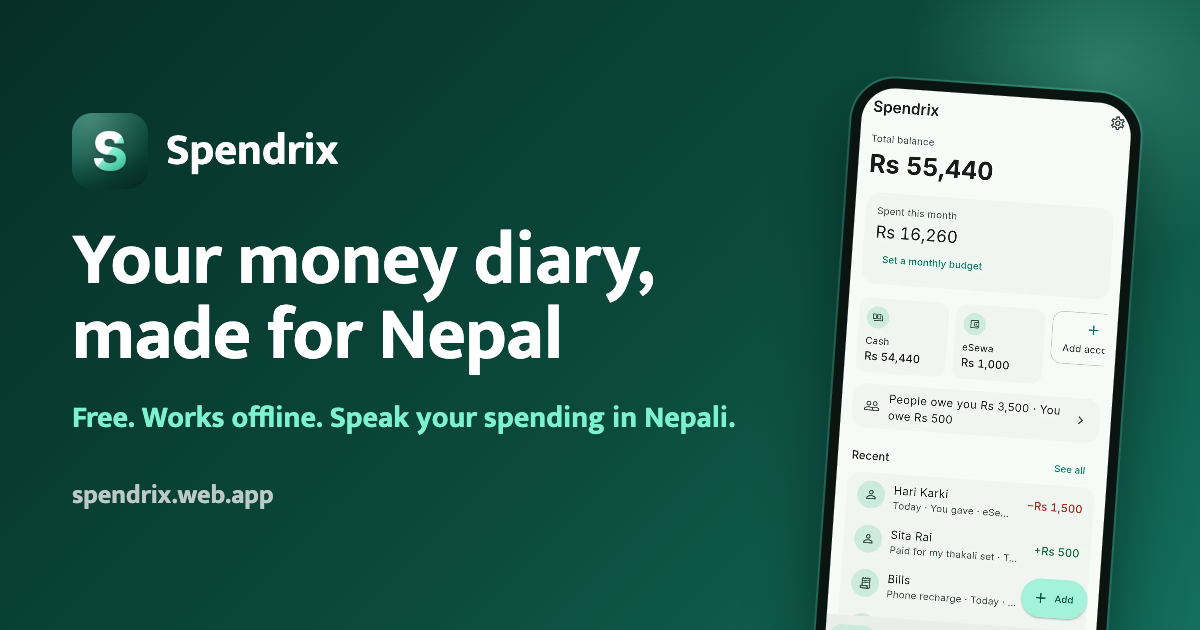
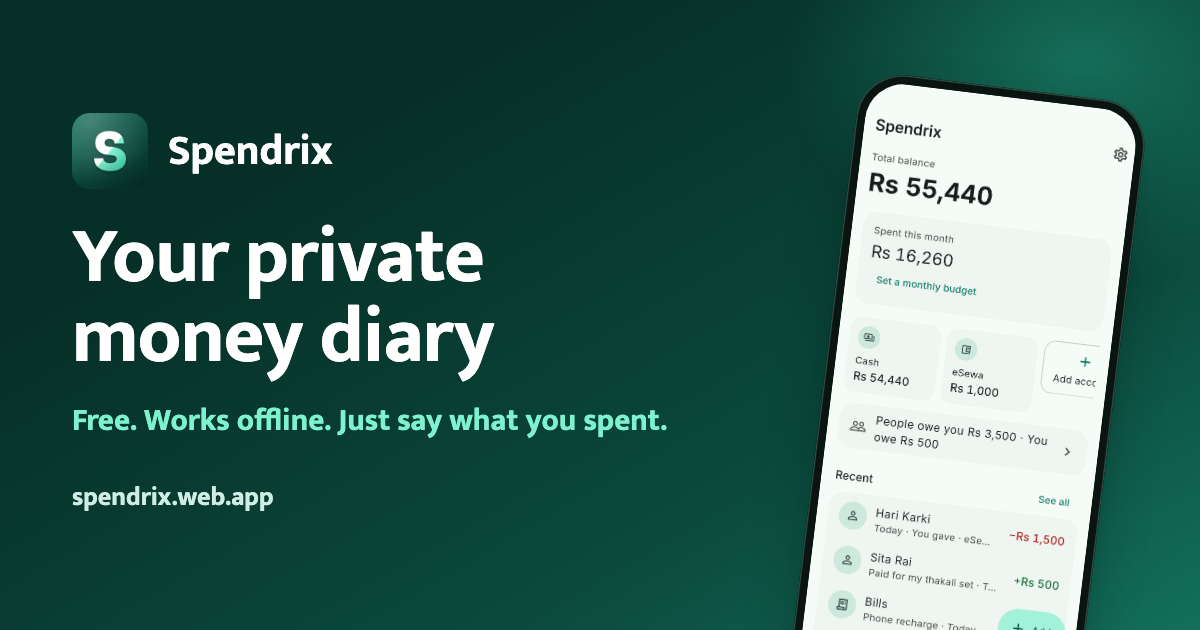
pitch the site to everyone, not just nepal

diff --git a/site/index.html b/site/index.html
@@ -5,8 +5,8 @@
 <!-- people who already use the web app go straight to it: 2.x writes "dev", older versions wrote "flutter.*" -->
 <script>try{if(matchMedia('(display-mode: standalone)').matches||(!/^#[a-z]/.test(location.hash)&&(localStorage.getItem('dev')||Object.keys(localStorage).some(function(k){return k.indexOf('flutter.')===0}))))location.replace('/app/')}catch(e){}</script>
 <meta name="viewport" content="width=device-width,initial-scale=1">
-<title>Spendrix: free expense tracker and money diary for Nepal</title>
-<meta name="description" content="Spendrix is a free money diary for your daily kharcha and hisab kitab. Add spending in seconds, see who owes you, and say it in Nepali. Works offline.">
+<title>Spendrix: a free, private expense tracker and money diary</title>
+<meta name="description" content="Spendrix is a free, private money diary. Add spending in seconds, see who owes you, and just say what you spent. Works offline.">
 <link rel="canonical" href="https://spendrix.web.app/">
 <link rel="alternate" hreflang="en" href="https://spendrix.web.app/">
 <link rel="alternate" hreflang="ne" href="https://spendrix.web.app/ne/">
@@ -20,21 +20,21 @@
 <meta property="og:site_name" content="Spendrix">
 <meta property="og:url" content="https://spendrix.web.app/">
 <meta property="og:title" content="Spendrix: a free money diary that stays on your phone">
-<meta property="og:description" content="Add spending in seconds, see who owes you, and say it in Nepali. Works offline. Free on Android, iPhone, Mac, Windows, Linux and the web.">
+<meta property="og:description" content="Add spending in seconds, see who owes you, and just say what you spent. Works offline. Free on Android, iPhone, Mac, Windows, Linux and the web.">
 <meta property="og:image" content="https://spendrix.web.app/og.png">
 <meta property="og:image:width" content="1200">
 <meta property="og:image:height" content="630">
-<meta property="og:image:alt" content="Spendrix on a phone, with the line: every rupee, noted in seconds">
+<meta property="og:image:alt" content="Spendrix on a phone, with the line: your private money diary">
 <meta property="og:locale" content="en_US">
 <meta property="og:locale:alternate" content="ne_NP">
 <meta name="twitter:card" content="summary_large_image">
 <meta name="twitter:title" content="Spendrix: a free money diary that stays on your phone">
-<meta name="twitter:description" content="Add spending in seconds, see who owes you, and say it in Nepali. Works offline.">
+<meta name="twitter:description" content="Add spending in seconds, see who owes you, and just say what you spent. Works offline.">
 <meta name="twitter:image" content="https://spendrix.web.app/og.png">
 <script type="application/ld+json">
 {"@context":"https://schema.org","@graph":[
-{"@type":"SoftwareApplication","name":"Spendrix","url":"https://spendrix.web.app/","applicationCategory":"FinanceApplication","operatingSystem":"Android, iOS, macOS, Windows, Linux, Web","description":"A free money diary and expense tracker made in Nepal. Add money in and out in seconds, track who owes you, and use an on-device helper that understands Nepali voice and receipt photos. Works offline.","image":"https://spendrix.web.app/og.png","inLanguage":["en","ne"],"downloadUrl":"https://github.com/kafle1/spendrix/releases/latest","author":{"@type":"Person","name":"Niraj Kafle","url":"https://github.com/kafle1"},"offers":{"@type":"Offer","price":"0","priceCurrency":"NPR"}},
-{"@type":"VideoObject","name":"Spendrix in 40 seconds","description":"Add spending in seconds, say it in Nepali, see where your money went and who owes whom. Works offline and stays on your phone.","thumbnailUrl":"https://spendrix.web.app/media/promo-poster.jpg","contentUrl":"https://spendrix.web.app/media/promo.mp4","uploadDate":"2026-10-01","duration":"PT41S"},
+{"@type":"SoftwareApplication","name":"Spendrix","url":"https://spendrix.web.app/","applicationCategory":"FinanceApplication","operatingSystem":"Android, iOS, macOS, Windows, Linux, Web","description":"A free, private money diary and expense tracker. Add money in and out in seconds, track who owes you, and use an on-device helper that understands voice in many languages and receipt photos. Works offline.","image":"https://spendrix.web.app/og.png","inLanguage":["en","ne"],"downloadUrl":"https://github.com/kafle1/spendrix/releases/latest","author":{"@type":"Person","name":"Niraj Kafle","url":"https://github.com/kafle1"},"offers":{"@type":"Offer","price":"0","priceCurrency":"USD"}},
+{"@type":"VideoObject","name":"Spendrix in 40 seconds","description":"Add spending in seconds, just say what you spent, see where your money went and who owes whom. Works offline and stays on your phone.","thumbnailUrl":"https://spendrix.web.app/media/promo-poster.jpg","contentUrl":"https://spendrix.web.app/media/promo.mp4","uploadDate":"2026-10-01","duration":"PT41S"},
 {"@type":"FAQPage","mainEntity":[
 {"@type":"Question","name":"Is Spendrix really free?","acceptedAnswer":{"@type":"Answer","text":"Yes. There's no paid plan and no ads."}},
 {"@type":"Question","name":"Do I need the internet?","acceptedAnswer":{"@type":"Answer","text":"No. Everything works offline. You only need the internet to download the AI helper once, and to sync if you turn it on."}},
@@ -42,7 +42,7 @@
 {"@type":"Question","name":"What if I lose my phone?","acceptedAnswer":{"@type":"Answer","text":"Turn on sync, or back up to a file from Settings now and then. Either way you can bring everything back on a new phone."}},
 {"@type":"Question","name":"Why isn't it on the Play Store?","acceptedAnswer":{"@type":"Answer","text":"Not yet. Until then you install the file from GitHub. Every release there is built from the public code."}},
 {"@type":"Question","name":"How do I update?","acceptedAnswer":{"@type":"Answer","text":"Spendrix shows a card on Home when a new version is out. Install the new file over the old app. Don't uninstall first, that deletes your data."}},
-{"@type":"Question","name":"Does it work in Nepali?","acceptedAnswer":{"@type":"Answer","text":"The AI helper understands Nepali and English, typed or spoken. The app's screens are in English for now, and new users start with Nepali rupees."}},
+{"@type":"Question","name":"Which languages does it understand?","acceptedAnswer":{"@type":"Answer","text":"The AI helper understands many languages, typed or spoken, including English and Nepali. The app's screens are in English for now."}},
 {"@type":"Question","name":"Which devices can run the AI helper?","acceptedAnswer":{"@type":"Answer","text":"Most 64-bit Android phones, iPhones, Macs with Apple chips, and 64-bit Windows and Linux PCs. In a browser it needs Chrome or Edge. Phones with less than 6 GB of memory may be slow. Everything else in Spendrix works without it."}},
 {"@type":"Question","name":"I used Spendrix in my browser before. Where did my entries go?","acceptedAnswer":{"@type":"Answer","text":"Nowhere. The web app moved to spendrix.web.app/app/. Open it in the same browser and your entries are right there."}}
 ]}]}
@@ -58,8 +58,8 @@
     </nav>
     <div class="hero-in">
       <div>
-        <h1>Every rupee, noted in seconds.</h1>
-        <p class="lead">Spendrix is a free money diary for your daily kharcha and hisab kitab. Type it, say it in Nepali, or snap the bill. It works offline and keeps your money on your phone.</p>
+        <h1>Every expense, noted in seconds.</h1>
+        <p class="lead">Spendrix is a free, private money diary. Type it, say it, or snap the bill. It works offline and keeps your money on your phone.</p>
         <div class="cta">
           <a class="btn" id="get" href="#download" data-android="Download for Android" data-iphone="Get it for iPhone" data-macos="Download for Mac" data-windows="Download for Windows" data-linux="Download for Linux"><svg viewBox="0 0 24 24" fill="none" stroke="currentColor" stroke-width="2.2" stroke-linecap="round" stroke-linejoin="round" aria-hidden="true"><path d="M12 4v11m0 0 5-5m-5 5-5-5M5 20h14"/></svg><span>Download Spendrix</span></a>
           <a class="alt" href="/app/">Or open it in your browser</a>
@@ -81,7 +81,7 @@
 <section class="sec feat" id="features">
   <div class="wrap">
     <h2>Money in, money out, and who owes whom</h2>
-    <p class="lead">An offline expense tracker made in Nepal. Everything you need for daily kharcha, and nothing you have to learn.</p>
+    <p class="lead">An offline expense tracker. Everything you need for daily spending, and nothing you have to learn.</p>
     <div class="shots">
       <figure><div class="phone"><img src="/img/home.webp" alt="Home screen with this month's totals" width="720" height="1558" loading="lazy"></div><figcaption><b>Home</b>See what's left this month at a glance.</figcaption></figure>
       <figure><div class="phone"><img src="/img/add.webp" alt="Adding an entry with the number keypad" width="720" height="1558" loading="lazy"></div><figcaption><b>Add</b>Type the amount, pick a category, save. That's it.</figcaption></figure>
@@ -91,8 +91,8 @@
     <ul class="extras">
       <li>Rent, salary and other bills that repeat add themselves on the due day.</li>
       <li>Set a monthly budget and a limit for any category.</li>
-      <li>Move money between cash, bank and eSewa without counting it as spending.</li>
-      <li>Nepali rupees by default. Any other currency works too.</li>
+      <li>Move money between cash, bank and wallets without counting it as spending.</li>
+      <li>Works in any currency.</li>
       <li>Lock it with your fingerprint, face or PIN.</li>
       <li>Back up to one file, or export a spreadsheet for Excel.</li>
     </ul>
@@ -102,13 +102,13 @@
 <section class="sec ai" id="ai">
   <div class="wrap ai-in">
     <div>
-      <h2>Say it in Nepali. It writes the entry.</h2>
-      <p class="say" lang="ne" aria-hidden="true">बिजुली बिल ११००</p>
-      <div class="card" aria-hidden="true"><span>Draft entry</span><strong>Electricity bill</strong><em>Rs 1,100</em><i><u>Save</u><u>Edit</u></i></div>
+      <h2>Just say it. It writes the entry.</h2>
+      <p class="say" aria-hidden="true">taxi 350</p>
+      <div class="card" aria-hidden="true"><span>Draft entry</span><strong>Taxi</strong><em>350</em><i><u>Save</u><u>Edit</u></i></div>
       <p class="lead">The helper runs on your own phone or computer. Download it once, 2 to 4 GB depending on the device, and it works with no internet. Your voice, photos and entries never leave the device.</p>
       <ul class="ways">
         <li><b>Type it.</b> "tea 60", "salary 50000", "lent Ram 2000".</li>
-        <li><b>Say it.</b> Tap the mic and say "khana 450". Nepali and English both work.</li>
+        <li><b>Say it.</b> Tap the mic and say "lunch 450". It understands many languages.</li>
         <li><b>Snap it.</b> Take a photo of a bill. It fills in the amount, date and shop.</li>
         <li><b>Ask it.</b> "How much did I spend on food this month?" or "Who owes me money?"</li>
       </ul>
@@ -156,7 +156,7 @@
     <details><summary>What if I lose my phone?</summary><p>Turn on sync, or back up to a file from Settings now and then. Either way you can bring everything back on a new phone.</p></details>
     <details><summary>Why isn't it on the Play Store?</summary><p>Not yet. Until then you install the file from GitHub. Every release there is built from the public code.</p></details>
     <details><summary>How do I update?</summary><p>Spendrix shows a card on Home when a new version is out. Install the new file over the old app. Don't uninstall first, that deletes your data.</p></details>
-    <details><summary>Does it work in Nepali?</summary><p>The AI helper understands Nepali and English, typed or spoken. The app's screens are in English for now, and new users start with Nepali rupees.</p></details>
+    <details><summary>Which languages does it understand?</summary><p>The AI helper understands many languages, typed or spoken, including English and Nepali. The app's screens are in English for now.</p></details>
     <details><summary>Which devices can run the AI helper?</summary><p>Most 64-bit Android phones, iPhones, Macs with Apple chips, and 64-bit Windows and Linux PCs. In a browser it needs Chrome or Edge. Phones with less than 6 GB of memory may be slow. Everything else in Spendrix works without it.</p></details>
     <details><summary>I used Spendrix in my browser before. Where did my entries go?</summary><p>Nowhere. The web app moved to <a href="/app/">spendrix.web.app/app/</a>. Open it in the same browser and your entries are right there.</p></details>
   </div>
@@ -165,7 +165,7 @@
 
 <footer>
   <div class="wrap">
-    <p>Spendrix, a private money diary made in Nepal by Niraj Kafle.</p>
+    <p>Spendrix, a private money diary by Niraj Kafle.</p>
     <a href="https://github.com/kafle1/spendrix">GitHub</a>
     <a href="https://github.com/kafle1/spendrix/blob/main/LICENSE">License</a>
     <a href="/privacy/">Privacy</a>

diff --git a/README.md b/README.md
@@ -6,12 +6,11 @@
 
 **A private money diary that never leaves your device.**
 
-Type, speak in Nepali or English, or snap a receipt. A helper running on your own phone or computer writes the entry for you. No account, no ads, works offline.
+Type it, say it, or snap a receipt. A helper running on your own phone or computer writes the entry for you. No account, no ads, works offline.
 
 [![Latest release](https://img.shields.io/github/v/release/kafle1/spendrix?style=flat-square&color=0E7C66&label=release)](https://github.com/kafle1/spendrix/releases/latest)
 [![Downloads](https://img.shields.io/github/downloads/kafle1/spendrix/total?style=flat-square&color=0E7C66)](https://github.com/kafle1/spendrix/releases)
 ![Platforms](https://img.shields.io/badge/Android%20·%20iPhone%20·%20Mac%20·%20Windows%20·%20Linux%20·%20Web-4FBFA5?style=flat-square)
-![Made in Nepal](https://img.shields.io/badge/made%20in-Nepal-DC143C?style=flat-square)
 
 [**Website**](https://spendrix.web.app) · [**Open in browser**](https://spendrix.web.app/app/) · [**Download**](#download) · [**Guide**](GUIDE.md) · [**Privacy**](https://spendrix.web.app/privacy/)
 
